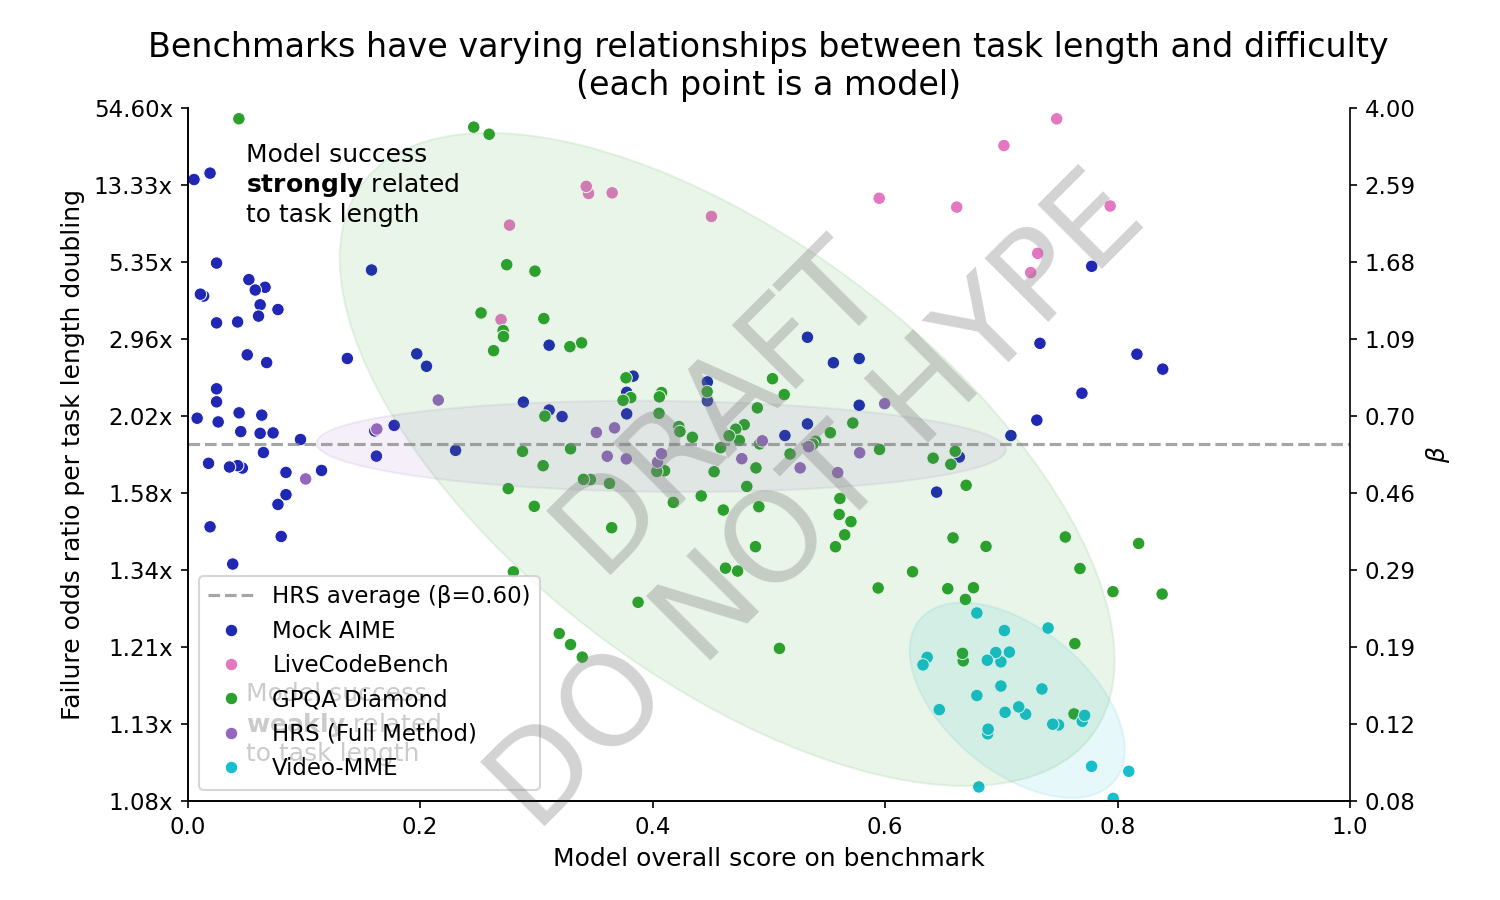
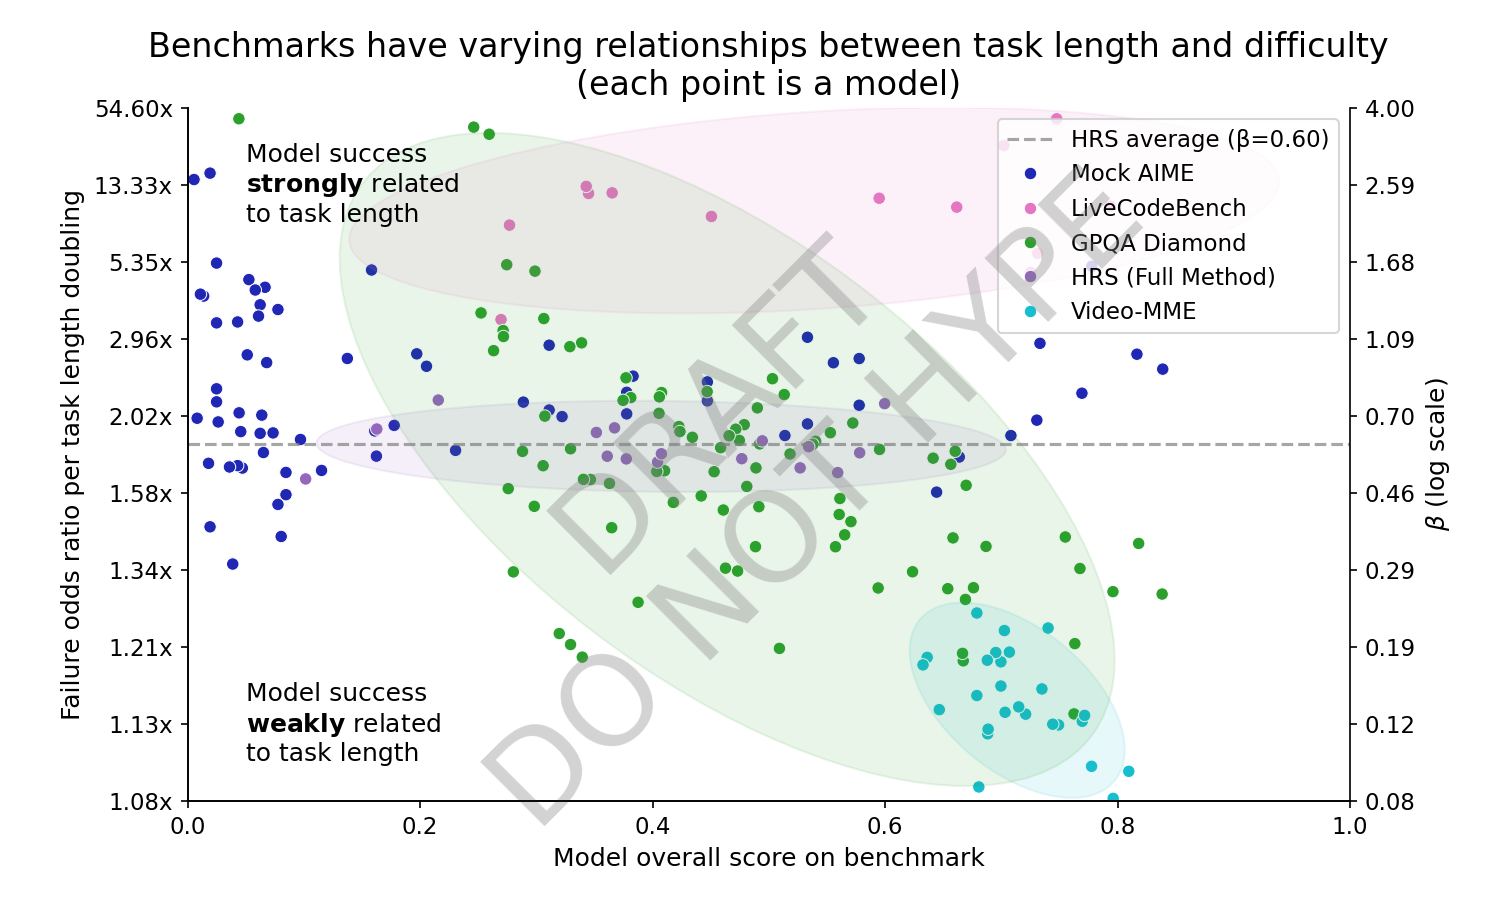
add ellipse

diff --git a/plots.py b/plots.py
@@ -477,6 +477,7 @@ def plot_length_dependence(df: pd.DataFrame, output_file: pathlib.Path):
         "hcast_r_s_full_method": benchmark_colors["hcast_r_s_full_method"],
         "video_mme": benchmark_colors["video_mme"],
         "gpqa_diamond": benchmark_colors["gpqa_diamond"],
+        "livecodebench_2411_2505": benchmark_colors["livecodebench_2411_2505"],
     }
     
     for bench in benchmark_to_ellipse_color.keys():
@@ -549,7 +550,7 @@ def plot_length_dependence(df: pd.DataFrame, output_file: pathlib.Path):
     def beta_formatter(x, pos):
         return f'{x:.2f}'
     ax2.yaxis.set_major_formatter(FuncFormatter(beta_formatter))
-    ax2.set_ylabel(r'$\beta$')
+    ax2.set_ylabel(r'$\beta$ (log scale)')
     
     # Ensure the right spine is visible
     ax2.spines['right'].set_visible(True)
@@ -559,7 +560,7 @@ def plot_length_dependence(df: pd.DataFrame, output_file: pathlib.Path):
     # Update legend to use benchmark aliases
     handles, labels = ax.get_legend_handles_labels()
     aliased_labels = [benchmark_aliases.get(label, label) for label in labels]
-    ax.legend(handles, aliased_labels)
+    ax.legend(handles, aliased_labels, loc="upper right")
 
     plt.savefig(output_file)
     print(f"Length dependence plot saved to {output_file}")
